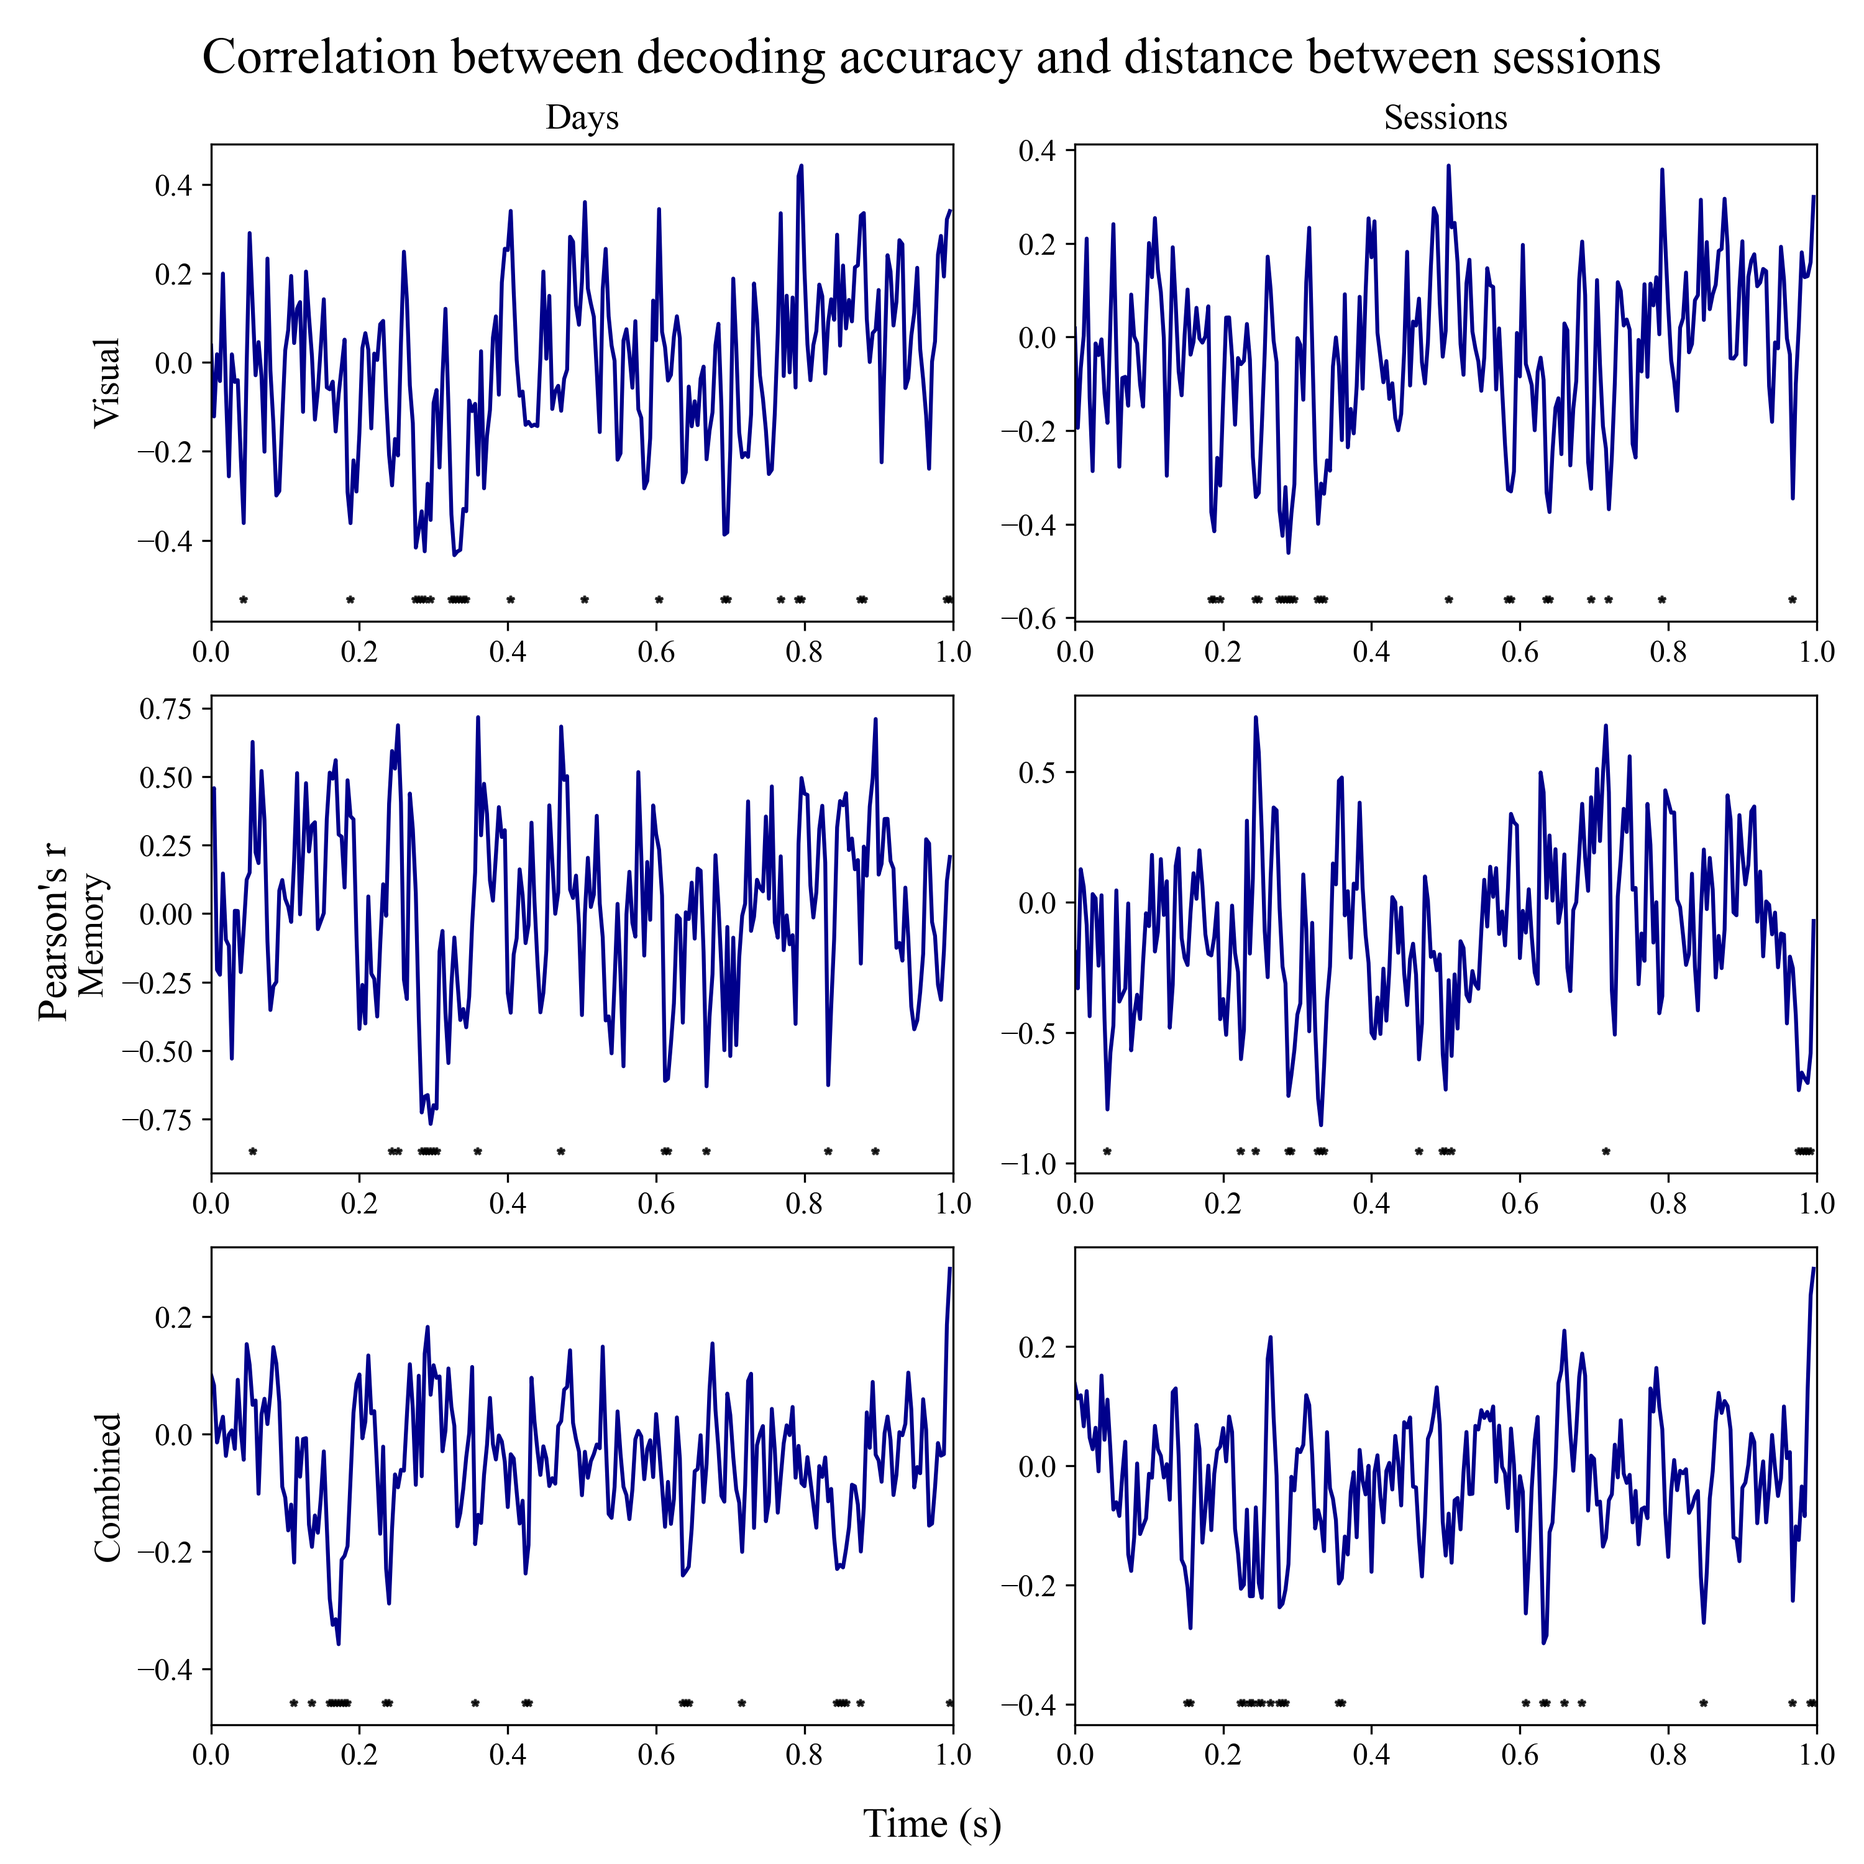
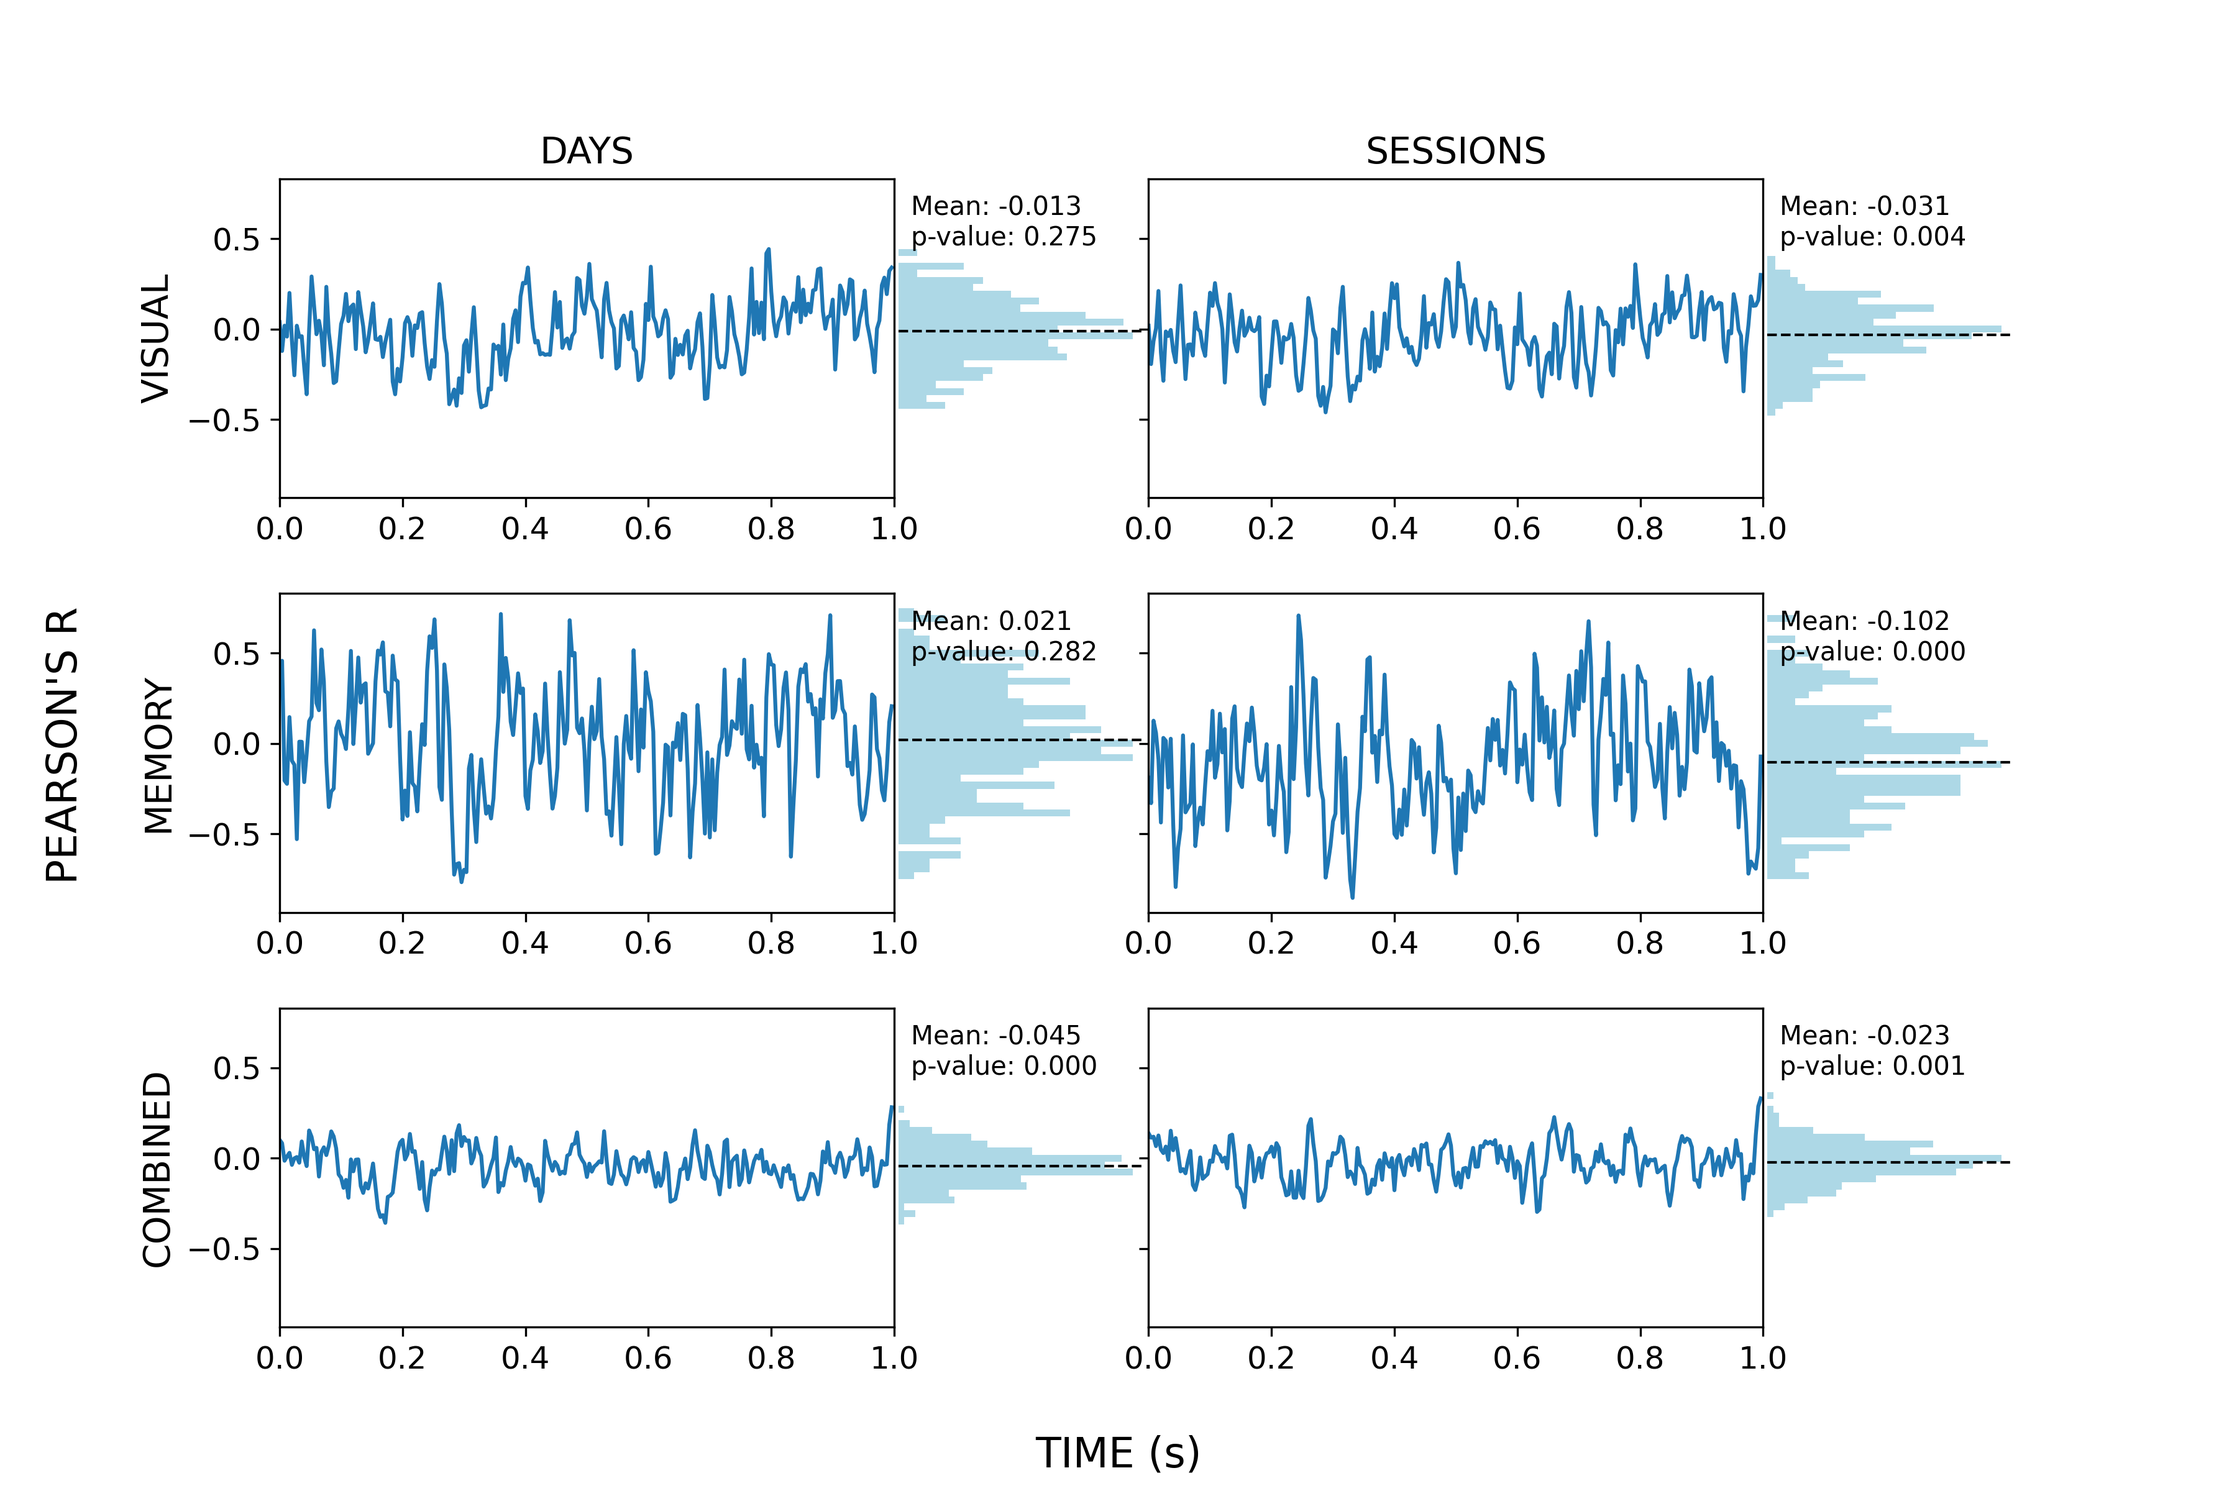
improve plots

diff --git a/decoding/cross_decoding/dist_acc_corr.py b/decoding/cross_decoding/dist_acc_corr.py
@@ -6,6 +6,7 @@ This script investigates the correlation between the decoding accuracies and the
 
 import numpy as np
 import matplotlib.pyplot as plt
+from matplotlib.gridspec import GridSpec
 
 from pathlib import Path
 
@@ -19,7 +20,7 @@ from scipy.stats import ttest_1samp
 from pandas import to_datetime
 
 # set parameters for all plots
-plt.rcParams['font.family'] = 'Serif'
+plt.rcParams['font.family'] = 'sans-serif'
 plt.rcParams['image.cmap'] = 'RdBu_r'
 plt.rcParams['image.interpolation'] = 'bilinear'
 plt.rcParams['axes.labelsize'] = 14
@@ -84,7 +85,7 @@ def get_corr_pval(X, y):
 
 def plot_corr(ax, corr, pval):
     # plot correlation
-    ax.plot(corr, color="darkblue", linewidth=1.5)
+    ax.plot(corr, color="lightblue", linewidth=1.5)
 
     # plot significance
     sig = np.where(pval < 0.05)[0]
@@ -99,8 +100,8 @@ def plot_corr(ax, corr, pval):
     ax.set_xlim([0, 250])
 
 
-def plot_correlations(acc, save_path = None):
-    
+def plot_corr_hist(acc, save_path = None):
+           
     # only memory
     mem_indices = [4, 5, 6, 7]
     mem_acc = acc[mem_indices, :, :, :][:, mem_indices, :, :]
@@ -115,63 +116,11 @@ def plot_correlations(acc, save_path = None):
     # convert to datetime
     dates = to_datetime(['08-10-2020', '09-10-2020', '15-10-2020', '16-10-2020', '02-03-2021', '16-03-2021', '18-03-2021', '22-10-2020', '29-10-2020', '12-11-2020', '13-11-2020'], format='%d-%m-%Y')
 
-    fig, axes = plt.subplots(3, 2, figsize=(10, 10), dpi=300)
-
-    for i, (acc, inds) in enumerate(zip([vis_acc, mem_acc, acc], [vis_indices, mem_indices, None])):
-        for j, dist_type in enumerate(["dates", "order"]):
-            if dist_type == "dates":
-                dist = get_distance_matrix(dates)
-            elif dist_type == "order":
-                dist = get_distance_matrix(order)
-
-            # use indices for visual and memory, not for combined
-            if inds is not None:
-                dist = dist[inds, :][:, inds]
-
-            # get x and y
-            X, y = prep_x_y(acc, dist)
-
-            # get correlation and p-values
-            corr, pval = get_corr_pval(X, y)
-
-            # plot
-            plot_corr(axes[i, j], corr, pval)
-
-    fig.supxlabel("Time (s)", fontsize=16)
-    fig.supylabel("Pearson's r", fontsize=16)
-    fig.suptitle("Correlation between decoding accuracy and distance between sessions", fontsize=20)
-    
-    # first column y label
-    axes[0, 0].set_ylabel("Visual")
-    axes[1, 0].set_ylabel("Memory")
-    axes[2, 0].set_ylabel("Combined")
-
-    # first row x label
-    axes[0, 0].set_title("Days")
-    axes[0, 1].set_title("Sessions")
+    # set up figure
+    gs_kw = dict(width_ratios=[1, 0.4, 1, 0.4], height_ratios=[1, 1, 1], wspace=0.01, hspace=0.3)
+    fig, axes = plt.subplots(3, 4, figsize=(12, 8), dpi=300, gridspec_kw=gs_kw, sharey=True)
 
 
-    plt.tight_layout()
-    if save_path is not None:
-        plt.savefig(save_path )
-
-def plot_hist_correlations(acc, save_path = None):
-        
-    # only memory
-    mem_indices = [4, 5, 6, 7]
-    mem_acc = acc[mem_indices, :, :, :][:, mem_indices, :, :]
-
-    # only visual
-    vis_indices = [0, 1, 2, 3, 8, 9, 10]
-    vis_acc = acc[vis_indices, :, :, :][:, vis_indices, :, :]
-
-    # order of sessions
-    order = [0, 1, 2, 3, 7, 8, 9, 10, 4, 5, 6] 
-
-    # convert to datetime
-    dates = to_datetime(['08-10-2020', '09-10-2020', '15-10-2020', '16-10-2020', '02-03-2021', '16-03-2021', '18-03-2021', '22-10-2020', '29-10-2020', '12-11-2020', '13-11-2020'], format='%d-%m-%Y')
-
-    fig, axes = plt.subplots(3, 2, figsize=(10, 10), dpi=300, sharex=True, sharey=True)
 
     bin_range = (-0.75, 0.75)
 
@@ -183,6 +132,9 @@ def plot_hist_correlations(acc, save_path = None):
                 dist = get_distance_matrix(dates)
             elif dist_type == "order":
                 dist = get_distance_matrix(order)
+
+            ax_hist = axes[i, j*2+1]
+            ax_corr = axes[i, j*2]
 
             # use indices for visual and memory, not for combined
             if inds is not None:
@@ -198,35 +150,44 @@ def plot_hist_correlations(acc, save_path = None):
             t, p = ttest_1samp(corr, 0)
             print(f"Mean correlation: {np.mean(corr):.3f}, p-value: {p:.3f}")
 
+            # plot correlation
+            ax_corr.plot(corr) 
+            # seconds on x axis
+            x_axis_seconds(ax_corr)
+            
+            # set limits
+            ax_corr.set_xlim([0, 250])
 
             # plot histogram of correlations
-            axes[i, j].hist(corr, bins = bins, color="lightblue")
-
-            # add mean correlation and p-value
-            axes[i, j].text(0.05, 0.95, f"Mean: {np.mean(corr):.3f}\np-value: {p:.3f}", transform=axes[i, j].transAxes, verticalalignment='top', horizontalalignment='left', fontsize=10)
+            ax_hist.hist(corr, bins = bins, color="lightblue", orientation="horizontal")
+            ax_hist.set_axis_off()
 
             # vertical line at mean
-            axes[i, j].axvline(np.mean(corr), color="k", linewidth=1, linestyle="--", label="Mean")
+            ax_hist.axhline(np.mean(corr), color="k", linewidth=1, linestyle="--", label="Mean")
 
-    # legend at last subplot
-    axes[2, 1].legend(loc="upper right")
+            # add mean correlation and p-value
+            ax_hist.text(0.05, 0.95, f"Mean: {np.mean(corr):.3f}\np-value: {p:.3f}", transform=ax_hist.transAxes, verticalalignment='top', horizontalalignment='left', fontsize=10)
+            
 
+    fig.supxlabel("TIME (s)", fontsize=16)
+    fig.supylabel("PEARSON'S R", fontsize=16)
 
-    fig.supxlabel("", fontsize=16)
-    fig.supylabel("", fontsize=16)
-    fig.suptitle("Histogram of correlations", fontsize=20)
     
     # first column y label
-    axes[0, 0].set_ylabel("Visual")
-    axes[1, 0].set_ylabel("Memory")
-    axes[2, 0].set_ylabel("Combined")
+    axes[0, 0].set_ylabel("Visual".upper())
+    axes[1, 0].set_ylabel("Memory".upper())
+    axes[2, 0].set_ylabel("Combined".upper())
+
+    # share title between columns
+    axes[0, 0].set_title("Days".upper())
+    axes[0, 2].set_title("Sessions".upper())
+
+
 
     # first row x label
-    axes[0, 0].set_title("Days")
-    axes[0, 1].set_title("Sessions")
+    #axes[0, 0:2].set_title("Days")
+    #axes[0, 2:4].set_title("Sessions")
 
-
-    plt.tight_layout()
     if save_path is not None:
         plt.savefig(save_path )
 
@@ -239,10 +200,8 @@ def main():
     plot_path = path.parents[0] / "plots" 
 
     # plot
-    plot_correlations(acc, save_path=plot_path / "corr_acc_dist.png")
+    plot_corr_hist(acc, save_path=plot_path / "corr_acc_dist.png")
 
-    # plot histogram
-    plot_hist_correlations(acc, save_path=plot_path / "hist_corr_acc_dist.png")
         
 
 if __name__ == "__main__":

diff --git a/decoding/cross_decoding/plot_results.py b/decoding/cross_decoding/plot_results.py
@@ -15,7 +15,7 @@ import seaborn as sns
 alpha = 0.05
 
 # set parameters for all plots
-plt.rcParams['font.family'] = 'Serif'
+plt.rcParams['font.family'] = 'sans-serif'
 plt.rcParams['image.cmap'] = 'RdBu_r'
 plt.rcParams['image.interpolation'] = 'bilinear'
 plt.rcParams['axes.labelsize'] = 14
@@ -26,6 +26,7 @@ plt.rcParams['legend.fontsize'] = 10
 plt.rcParams['legend.title_fontsize'] = 12
 plt.rcParams['figure.titlesize'] = 18
 plt.rcParams['figure.dpi'] = 300
+
 
 def determine_linestyle(train_condition, test_condition):
     if train_condition == test_condition:
@@ -90,15 +91,22 @@ def plot_cross_decoding_matrix(acc, save_path = None):
 def plot_sig_clusters(ax, array_name):
     # add significant clusters to plot as contour
     cluster_array = np.load(f'permutation/sens_sig_clusters_{array_name}.npy', allow_pickle=True)
+
     # plot contour where value is 1
     ax.contour(cluster_array, levels = [0.5], colors = "k", linewidths = 0.3, alpha = 0.7)
+
+    # somehow ax.contour messes with the axis, so we need to reset it
+    ax.set_yticks(np.arange(0, 251, step=50), [0. , 0.2, 0.4, 0.6, 0.8, 1. ])
+    ax.set_xticks(np.arange(0, 251, step=50), [0. , 0.2, 0.4, 0.6, 0.8, 1. ])
+
+    return ax
 
 
 def add_dif_label(ax, label):
     ax.text(-0.08, 1.1, label, transform=ax.transAxes, fontsize=20, fontweight='bold', va='top', ha='right', color = 'red', alpha = 0.7)
 
 def plot_train_test_condition(acc, parc, vmin = 40, vmax = 60, diff_colour = 'darkblue'):
-    fig, axs = plt.subplots(4, 3, figsize = (15, 15), dpi = 300)
+    fig, axs = plt.subplots(4, 3, figsize = (12, 12*4/3), dpi = 300)
     
     vis = np.array([0, 1, 2, 3, 4, 5, 6])
     mem = np.array([7, 8, 9, 10])
@@ -111,7 +119,8 @@ def plot_train_test_condition(acc, parc, vmin = 40, vmax = 60, diff_colour = 'da
     
     # VIS VIS
     vis_vis = np.nanmean(acc[vis,:, :, :][:, vis, :, :], axis = (0, 1))
-    axs[1, 0] = plot.plot_tgm_ax(vis_vis, ax=axs[1, 0], vmin=vmin, vmax=vmax, chance_level=chance_level(n_trials_vis, alpha = alpha, p = 0.5), title ='train: vis,  test:vis')
+
+    axs[1, 0] = plot.plot_tgm_ax(vis_vis, ax=axs[1, 0], vmin=vmin, vmax=vmax, chance_level=chance_level(n_trials_vis, alpha = alpha, p = 0.5), title ='train: vis,  test:vis'.upper())
     axs[1,0].text(-0.1, 1.1, 'A', transform=axs[1,0].transAxes, fontsize=20, fontweight='bold', va='top', ha='right')
 
     # MEM MEM
@@ -121,23 +130,23 @@ def plot_train_test_condition(acc, parc, vmin = 40, vmax = 60, diff_colour = 'da
 
     # VIS MEM
     vis_mem = acc[vis,:, :, :][:, mem, :, :].mean(axis = (0, 1))
-    axs[2, 0] = plot.plot_tgm_ax(vis_mem, ax=axs[2, 0], vmin=vmin, vmax=vmax, chance_level=chance_level(n_trials_mem,alpha = alpha, p = 0.5), title = 'train:vis, test:mem')
+    axs[2, 0] = plot.plot_tgm_ax(vis_mem, ax=axs[2, 0], vmin=vmin, vmax=vmax, chance_level=chance_level(n_trials_mem,alpha = alpha, p = 0.5), title = 'train:vis, test:mem'.upper())
     axs[2,0].text(-0.1, 1.1, 'C', transform=axs[2,0].transAxes, fontsize=20, fontweight='bold', va='top', ha='right')
 
     # MEM VIS
     mem_vis = acc[mem, :, :, :][:, vis, :, :].mean(axis = (0, 1))
-    axs[2, 1] = plot.plot_tgm_ax(mem_vis, ax=axs[2, 1], vmin=vmin, vmax=vmax, chance_level=chance_level(n_trials_vis, alpha = alpha, p = 0.5), title='train:mem, test:vis')
+    axs[2, 1] = plot.plot_tgm_ax(mem_vis, ax=axs[2, 1], vmin=vmin, vmax=vmax, chance_level=chance_level(n_trials_vis, alpha = alpha, p = 0.5), title='train:mem, test:vis'.upper())
     axs[2,1].text(-0.1, 1.1, 'D', transform=axs[2,1].transAxes, fontsize=20, fontweight='bold', va='top', ha='right')
 
     ### DIFFERENCE PLOTS ###
     # difference between test and train condition (vis - mem)
-    axs[1, 2] = plot.plot_tgm_ax(vis_vis - mem_mem, ax=axs[1, 2], vmin=vmin_diff, vmax=vmax_diff)
+    axs[1, 2] = plot.plot_tgm_ax(np.array(vis_vis - mem_mem), ax=axs[1, 2], vmin=vmin_diff, vmax=vmax_diff)
     plot_sig_clusters(axs[1, 2], "visvis_memmem")
     add_dif_label(axs[1, 2], 'A-B')
 
     # difference between test and train condition
     axs[2, 2] = plot.plot_tgm_ax(vis_mem - mem_vis, ax=axs[2, 2], vmin=vmin_diff, vmax=vmax_diff)
-    plot_sig_clusters(axs[2, 2], "vismem_memvis")
+    axs[2, 2]= plot_sig_clusters(axs[2, 2], "vismem_memvis")
     add_dif_label(axs[2, 2], 'C-D')
 
     # difference between vis_vis and vis_mem
@@ -148,21 +157,22 @@ def plot_train_test_condition(acc, parc, vmin = 40, vmax = 60, diff_colour = 'da
 
     # difference between mem_mem and mem_vis
     axs[3, 1] = plot.plot_tgm_ax(mem_mem - mem_vis, ax=axs[3, 1], vmin=vmin_diff, vmax=vmax_diff)
-    plot_sig_clusters(axs[3, 1], "memmem_memvis")
+    axs[3, 1] = plot_sig_clusters(axs[3, 1], "memmem_memvis")
     add_dif_label(axs[3, 1], 'B-D')
 
     # difference between vis_vis and mem_vis
     axs[3, 2] = plot.plot_tgm_ax(vis_vis - mem_vis, ax=axs[3, 2], vmin=vmin_diff, vmax=vmax_diff)
-    plot_sig_clusters(axs[3, 2], "visvis_memvis")
+    axs[3, 2] = plot_sig_clusters(axs[3, 2], "visvis_memvis")
     add_dif_label(axs[3, 2], 'A-D')
 
     # difference between vis_mem and mem_mem
     axs[0, 2] = plot.plot_tgm_ax(vis_mem - mem_mem, ax=axs[0, 2], vmin=vmin_diff, vmax=vmax_diff)
-    plot_sig_clusters(axs[0, 2], "vismem_memmem")
+    axs[0, 2] =plot_sig_clusters(axs[0, 2], "vismem_memmem")
     add_dif_label(axs[0, 2], 'C-B')
 
 
     for ax in axs[[2, 3, 3, 3, 1, 3, 0], [2, 2, 0, 1, 2, 2, 2]].flatten(): # difference plots
+        x_axis_seconds(ax)
         change_spine_colour(ax, diff_colour)
         add_diagonal_line(ax)
 
@@ -174,12 +184,11 @@ def plot_train_test_condition(acc, parc, vmin = 40, vmax = 60, diff_colour = 'da
         # remove the axis
         ax.axis('off')
         # add colourbar
-        cb = plt.colorbar(colour_loc[i], ax = ax, orientation = 'horizontal', pad = 0.9, shrink = 0.7, location = "top")
-        cb.ax.set_title(labels[i], fontsize = 16)
+        cb = plt.colorbar(colour_loc[i], ax = ax, orientation = 'horizontal', pad = 0.9, shrink = 0.8, location = "bottom")
+        cb.ax.set_title(labels[i], fontsize = 14)
 
         if i == 1:
             change_spine_colour(cb.ax, diff_colour)
-
 
     plt.tight_layout()
     plt.savefig(os.path.join('plots', f'cross_decoding_{parc}_average_vis_mem.png'))

diff --git a/utils/analysis/plot.py b/utils/analysis/plot.py
@@ -5,7 +5,7 @@ import numpy as np
 colours = ['#0063B2FF', '#5DBB63FF']
 
 # set font for all plots
-plt.rcParams['font.family'] = 'Serif'
+plt.rcParams['font.family'] = 'sans-serif'
 plt.rcParams['image.cmap'] = 'RdBu_r'
 plt.rcParams['image.interpolation'] = 'bilinear'
 plt.rcParams['axes.labelsize'] = 14
@@ -46,9 +46,8 @@ def plot_tgm_ax(X, ax, vmin = 30, vmax = 70, chance_level = None, colour_bar = F
     if chance_level is not None:
         ax.contour(X*100, levels=[chance_level*100], colors='gray', alpha = 0.5, linewidths=0.5)
 
-
-    ax.set_yticks(np.arange(0, 251, step=50), [0. , 0.2, 0.4, 0.6, 0.8, 1. ])
-    ax.set_xticks(np.arange(0, 251, step=50), [0. , 0.2, 0.4, 0.6, 0.8, 1. ])
+    ax.set_yticks(np.arange(0, 252, step=50), [0. , 0.2, 0.4, 0.6, 0.8, 1. ])
+    ax.set_xticks(np.arange(0, 252, step=50), [0. , 0.2, 0.4, 0.6, 0.8, 1. ])
     
     if colour_bar:
         cb = plt.colorbar(im, ax = ax, location = 'top', shrink = 0.5)
